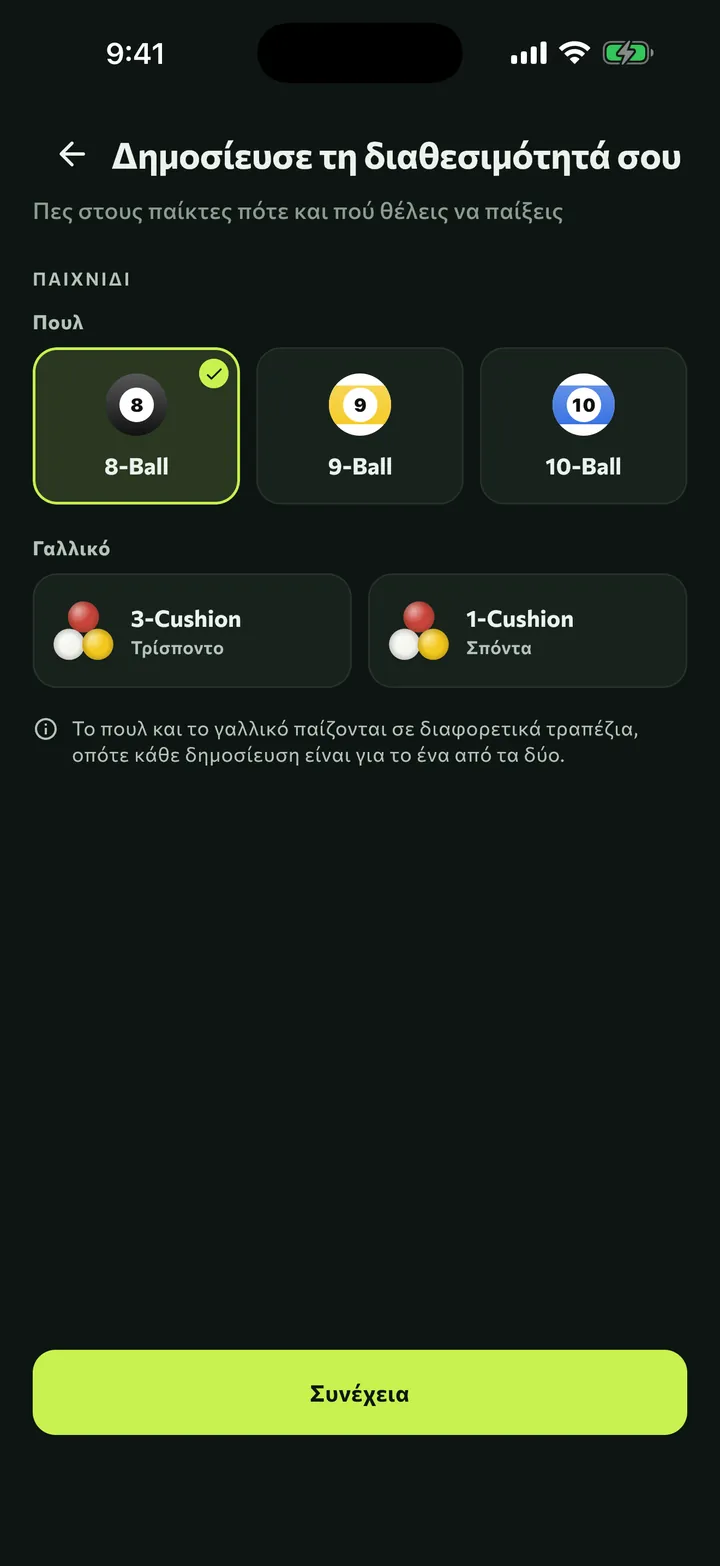
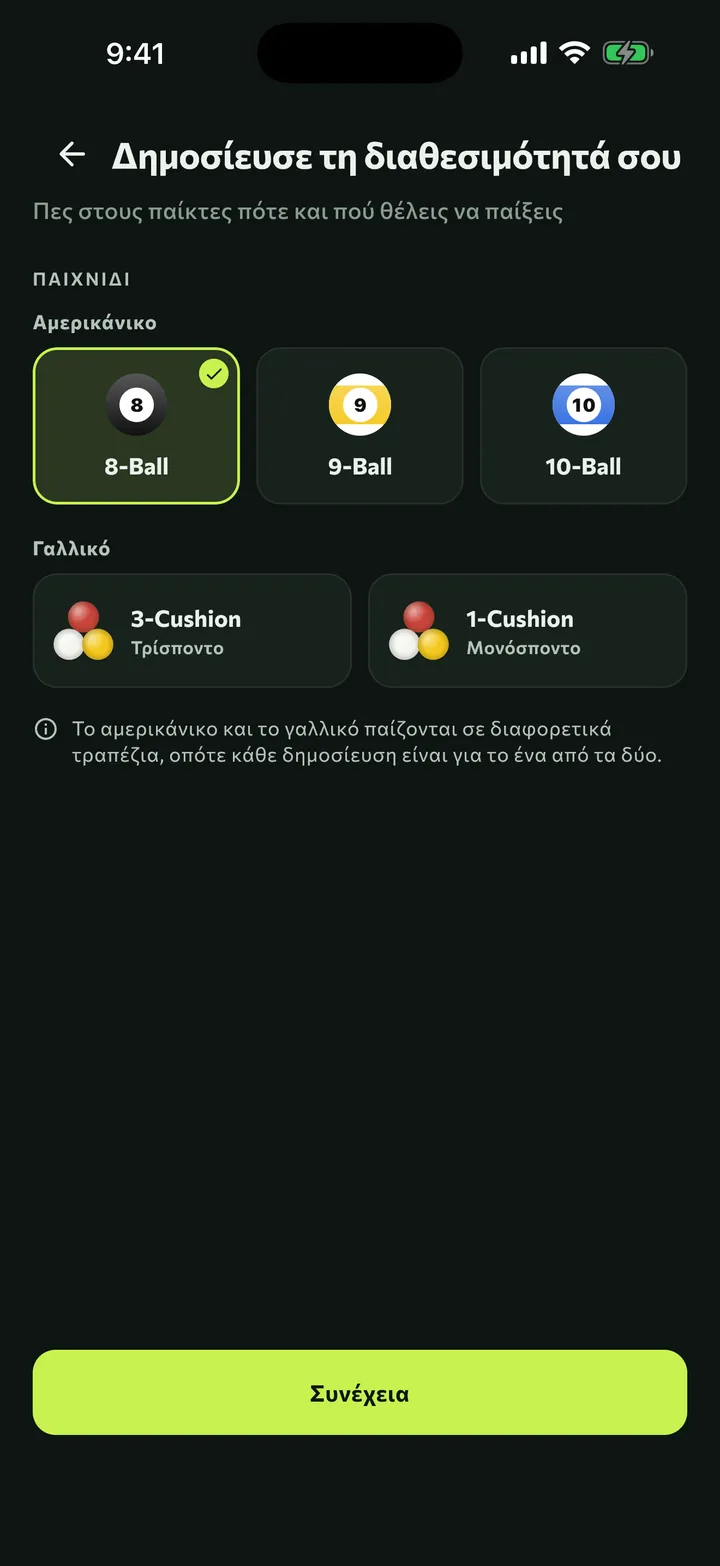
assets: 2.2.0 screenshots, and the Greek game picker returns to the home page
The WebPs are rebuilt from the app repo's 2.2.0 iOS store screenshots
(origin/master e0ec0451). The Greek game picker now reads «Αμερικάνικο»
and «Μονόσποντο» instead of «Πουλ» and «Σπόντα», and the Greek welcome
tagline says «μπιλιάρδο, αμερικάνικο και γαλλικό», so the mask that painted
out the 2.1.0 tagline is gone and the picker is back in the Greek features
tile, as it already is on the English page.

The venue frames were byte-identical in 2.2.0, so the venue WebPs and both
social cards (re-rendered from them) come out unchanged.

Merge only once 2.2.0 is live on both the App Store and Google Play.

Changed region(s): [[0.0917, 0.4598, 0.9167, 0.4904], [0.6417, 0.3985, 0.7944, 0.4291], [0.0611, 0.1839, 0.2139, 0.2146]]

diff --git a/index.html b/index.html
@@ -120,6 +120,7 @@
         <div class="balls" aria-hidden="true"><span class="ball b8"><span class="n">8</span></span><span class="ball cr"></span><span class="ball cy"></span></div>
         <h3>Αμερικάνικο και γαλλικό</h3>
         <p>8-Ball, 9-Ball και 10-Ball, αλλά και τρίσποντο και μονόσποντο στις αίθουσες με τραπέζια γαλλικού.</p>
+        <div class="tile-art"><img src="assets/img/el-create-360.webp" srcset="assets/img/el-create-360.webp 360w, assets/img/el-create-720.webp 720w" sizes="300px" width="360" height="783" loading="lazy" alt="Η επιλογή παιχνιδιού στο RackUp: 8-Ball, 9-Ball, 10-Ball, τρίσποντο και μονόσποντο"></div>
       </article>
       <article class="tile">
         <span class="tag">Εσύ αποφασίζεις</span>

diff --git a/tools/make_images.py b/tools/make_images.py
@@ -1,7 +1,7 @@
 """Rebuilds assets/img from the iOS store screenshots in the sibling rackup repo. Dev only:
 pip install Pillow && python tools/make_images.py [path/to/ios-screenshots]
 After rendering tools/og-card.html to assets/og-card.png: python tools/make_images.py --og-card
-Never add 1-venues.png: it shows a stale hall count.
+1-venues.png is left out: its hall count is a snapshot that goes stale as halls are added.
 """
 import math
 import sys
@@ -16,9 +16,6 @@ OG_CARD = ROOT / "assets" / "og-card.png"
 LANGS = {"el": "el", "en": "en-GB"}
 SCREENS = {"venue": "4-venue.png", "create": "2-create.png", "welcome": "5-welcome.png"}
 WIDTHS = (360, 720)
-# Boxes painted over in the source, in source pixels: the 2.1.0 Greek tagline says "πουλ",
-# a word the site no longer uses. Drop this once 2.2.0 screenshots replace the sources.
-MASKS = {("el", "welcome"): (330, 1420, 990, 1550)}
 
 
 def build(source):
@@ -27,9 +24,6 @@ def build(source):
         for screen, name in SCREENS.items():
             with Image.open(source / folder / name) as shot:
                 shot = shot.convert("RGB")
-                box = MASKS.get((lang, screen))
-                if box:
-                    shot.paste(shot.getpixel((box[0] - 20, box[1])), box)
                 # 1x height rounded up so 2x is exactly double; srcset pairs stay true density pairs.
                 one_x = math.ceil(WIDTHS[0] * shot.height / shot.width)
                 for width in WIDTHS:

diff --git a/README.md b/README.md
@@ -80,7 +80,7 @@ that way; `tools/test_site.py` fails on the old green and gold palette.
   declare the same `font-weight` range, or Chrome never uses the Greek one.
   `python tools/make_fonts.py` rebuilds the subsets (needs `pip install fonttools brotli`).
 - **Images.** `python tools/make_images.py` rebuilds the WebP screenshots from the
-  app repo's store screenshots (never `1-venues.png`, its hall count is stale) and,
+  app repo's store screenshots (not `1-venues.png`, its hall count goes stale) and,
   with `--og-card`, optimises the social card rendered from `tools/og-card.html`.
 - **Checking a phone layout.** Headless Edge will not lay out narrower than 484 px,
   so load pages into a same-origin iframe of the width you want and compare
